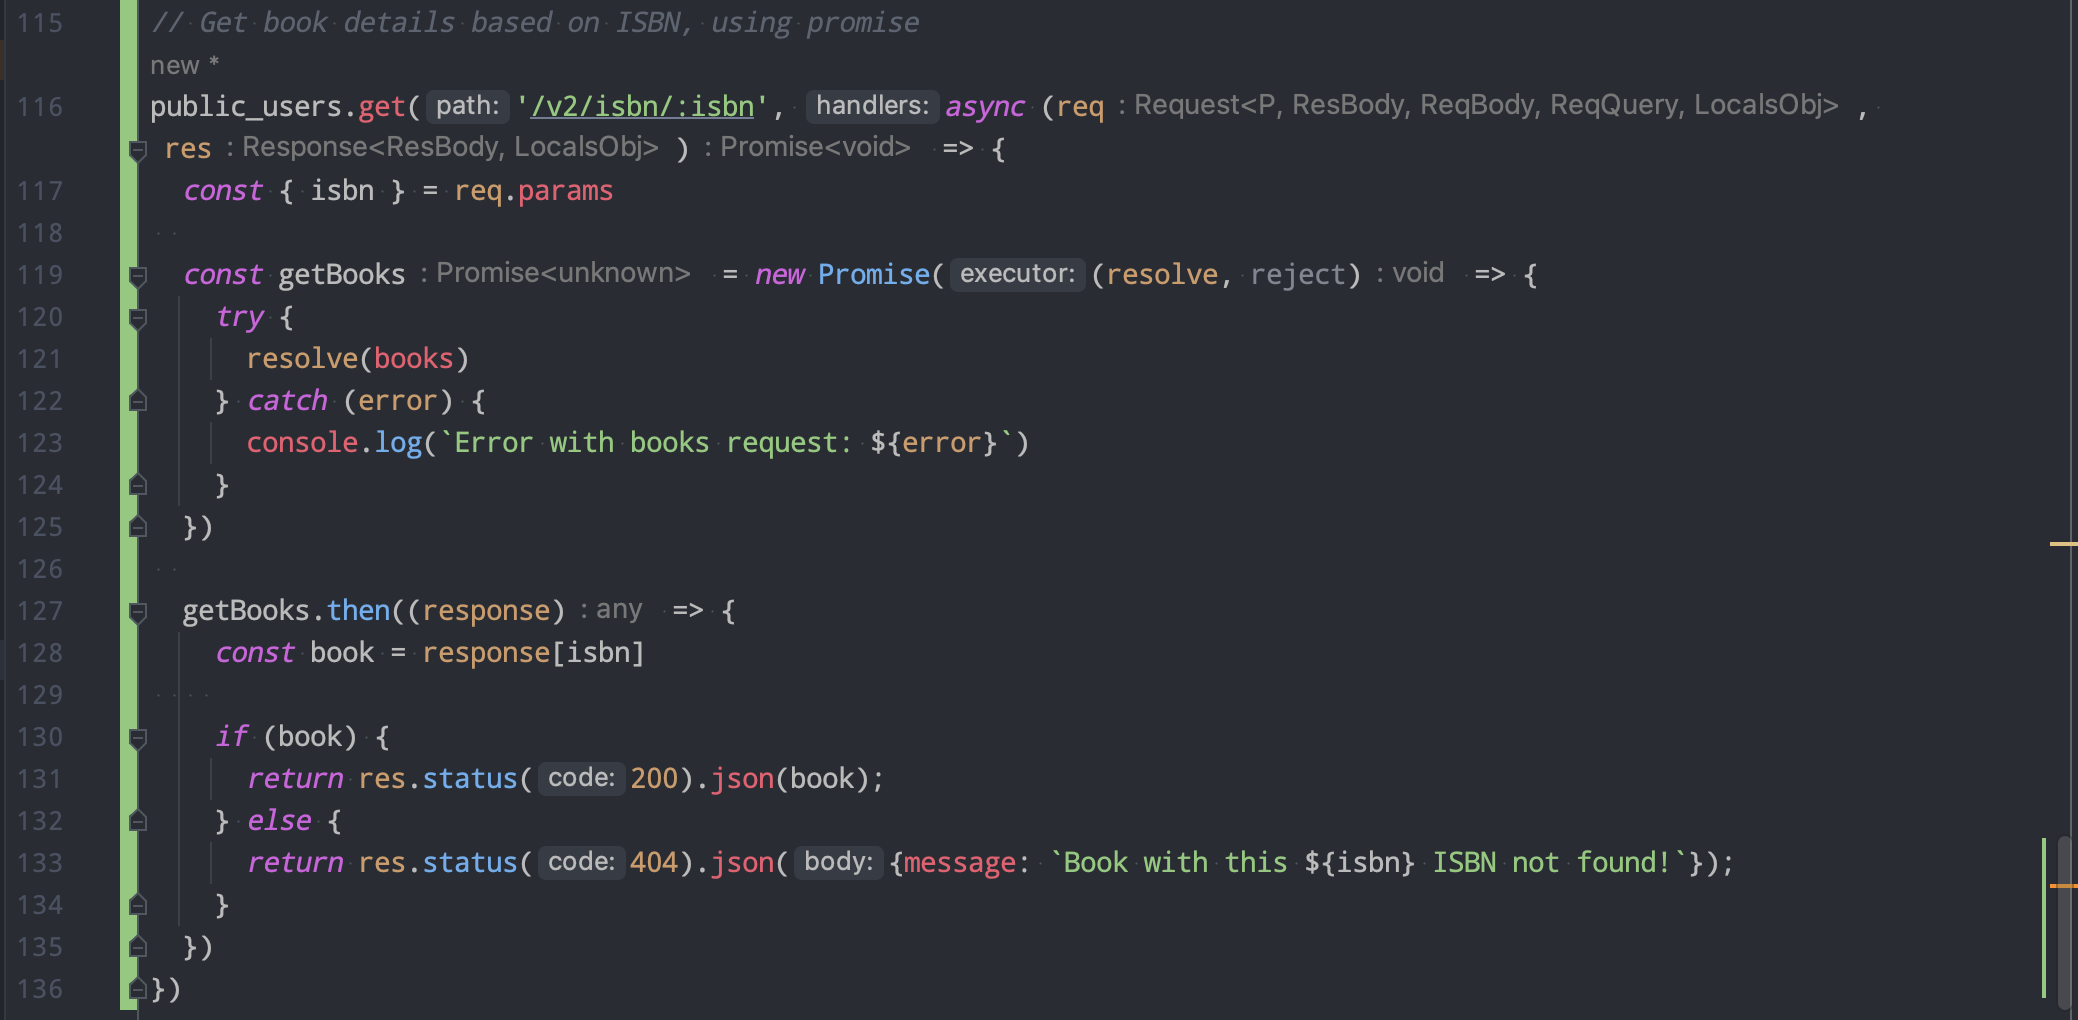
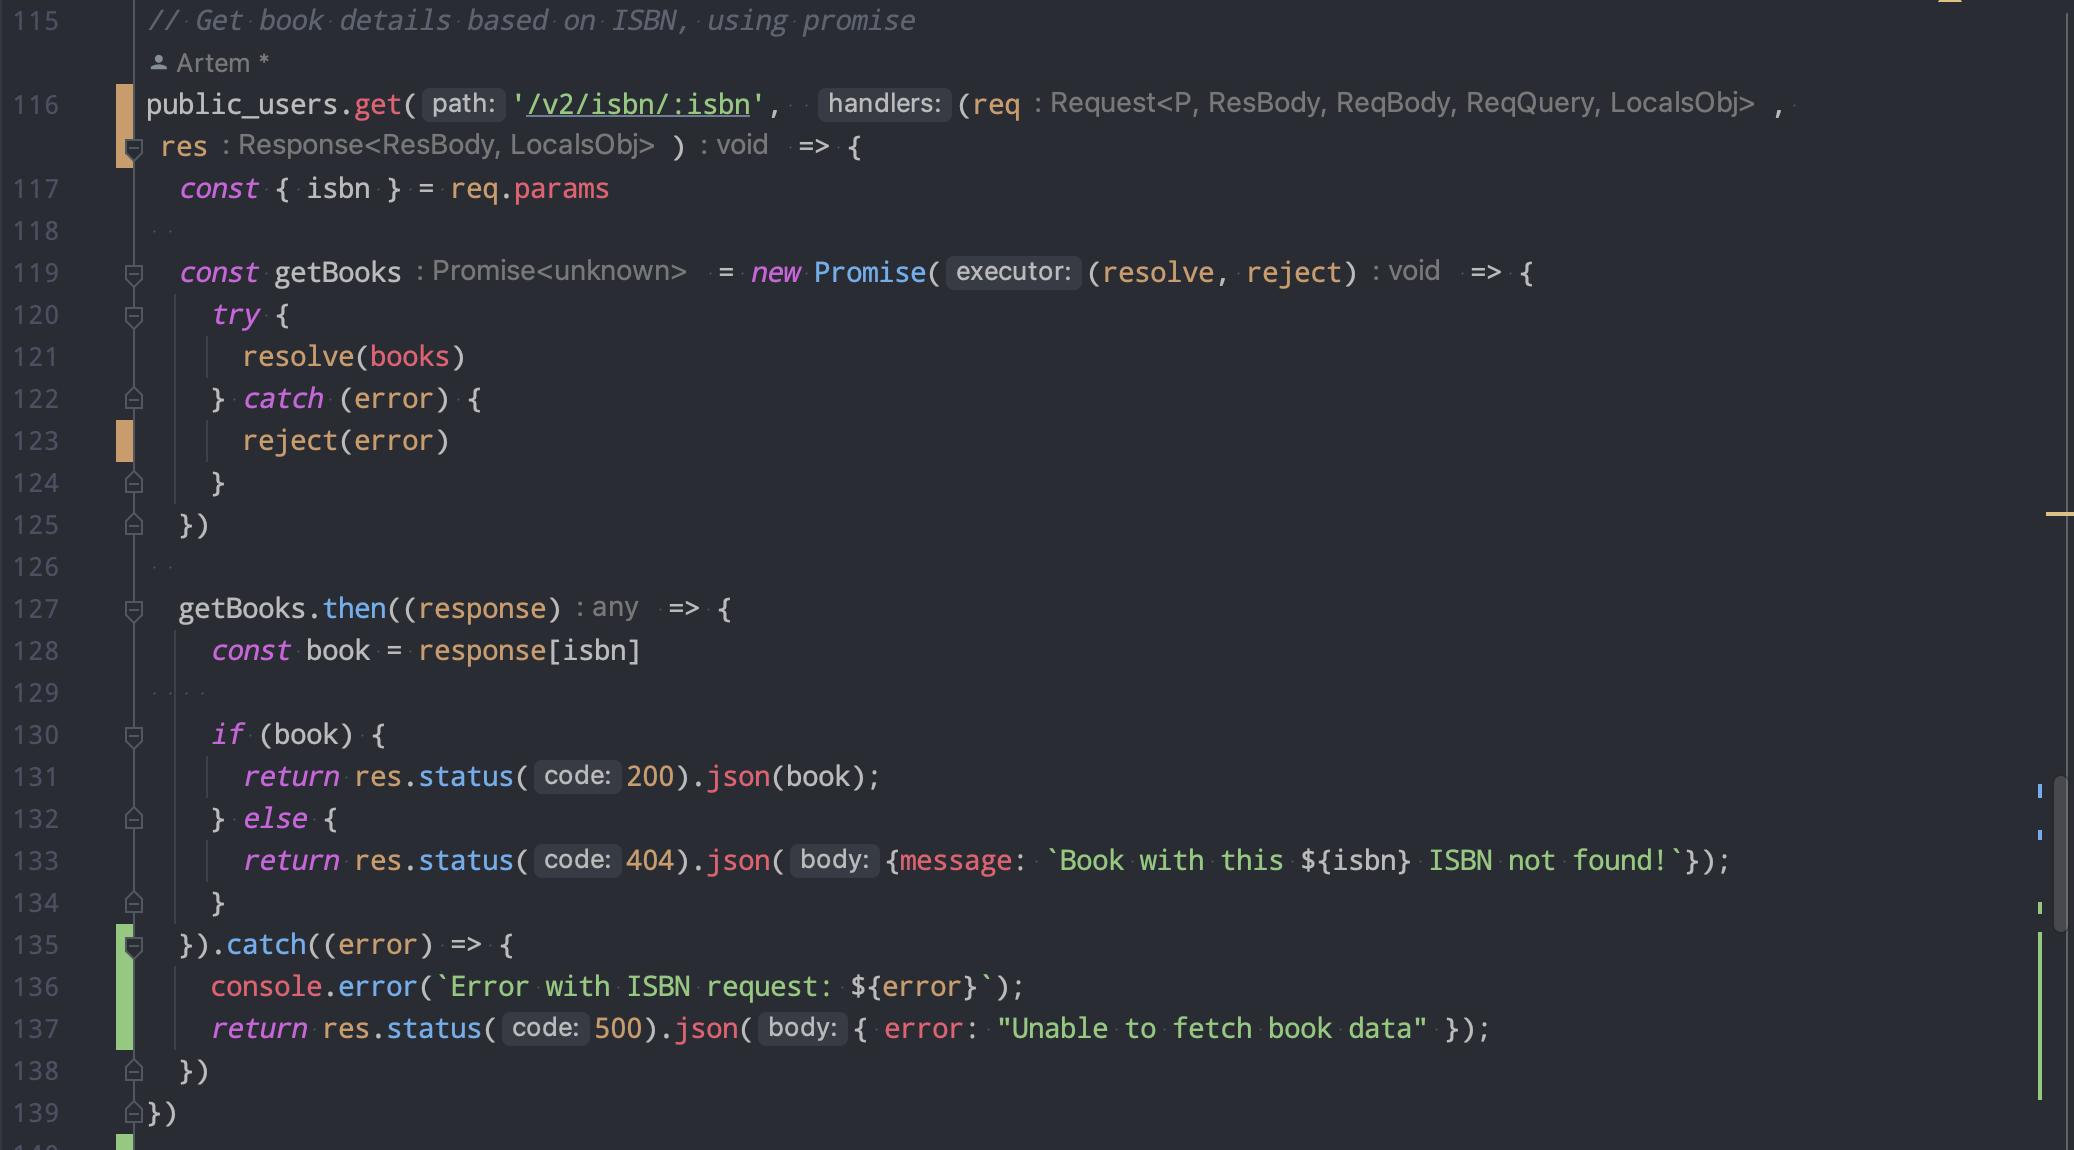
feat: completed Task 12, updated Task 11

diff --git a/final_project/router/general.js b/final_project/router/general.js
@@ -113,14 +113,14 @@ public_users.get('/v2', async (req, res) => {
 })
 
 // Get book details based on ISBN, using promise
-public_users.get('/v2/isbn/:isbn', async (req, res) => {
+public_users.get('/v2/isbn/:isbn',  (req, res) => {
   const { isbn } = req.params
   
   const getBooks = new Promise((resolve, reject) => {
     try {
       resolve(books)
     } catch (error) {
-      console.log(`Error with books request: ${error}`)
+      reject(error)
     }
   })
   
@@ -132,7 +132,37 @@ public_users.get('/v2/isbn/:isbn', async (req, res) => {
     } else {
       return res.status(404).json({message: `Book with this ${isbn} ISBN not found!`});
     }
+  }).catch((error) => {
+    console.error(`Error with ISBN request: ${error}`);
+    return res.status(500).json({ error: "Unable to fetch book data" });
   })
 })
+
+// Get book details based on author, using promise
+public_users.get('/v2/author/:author',function (req, res) {
+  const { author } = req.params
+  
+  const getBooks = new Promise((resolve, reject) => {
+    try {
+      const filteredBooks = Object.values(books).filter(book => simplifyString(book.author) === simplifyString(author))
+      
+      resolve(filteredBooks)
+    } catch (error) {
+      reject(error)
+    }
+  })
+  
+  
+  getBooks.then((response) => {
+    if (response.length > 0) {
+      return res.status(200).json(response)
+    } else {
+      return res.status(404).json({ error: `No books found with this author '${author}'` })
+    }
+  }).catch((error) => {
+    console.log(`Error with author request: ${error}`)
+    return res.status(500).json({ error: error.message })
+  })
+});
 
 module.exports.general = public_users;
